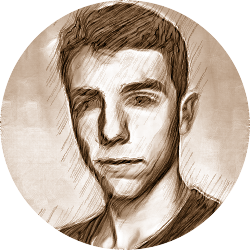
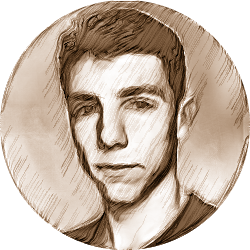
Correções na aula 1 e melhoria no contraste da foto do Vinícius.

diff --git a/aula1.tex b/aula1.tex
@@ -294,7 +294,7 @@ Departamento de Ciência da Computação}
 				
 				\vspace{1em}
 				
-				\1 Integrante do USP Game Dev
+				\1 Integrante do USPGameDev
 					\2[-] {\scriptsize grupo de pesquisa e desenvolvimento de jogos digitais e analógicos}
 			\end{outline}
 		
@@ -320,7 +320,7 @@ Departamento de Ciência da Computação}
 		\begin{quotation}
 			\noindent
 			\justify
-			{\large Complementar à formação técnica/operacional de qualidade (leia-se ``Ciência da Computação'') com a capacitação em aspectos humanos relacionados ao \textbf{design de experiências}}
+			{\large Complementar a formação técnica/operacional de qualidade (leia-se ``Ciência da Computação'') com a capacitação em aspectos humanos relacionados ao \textbf{design de experiências}}
 		\end{quotation}
 
 		\vspace{1em}
